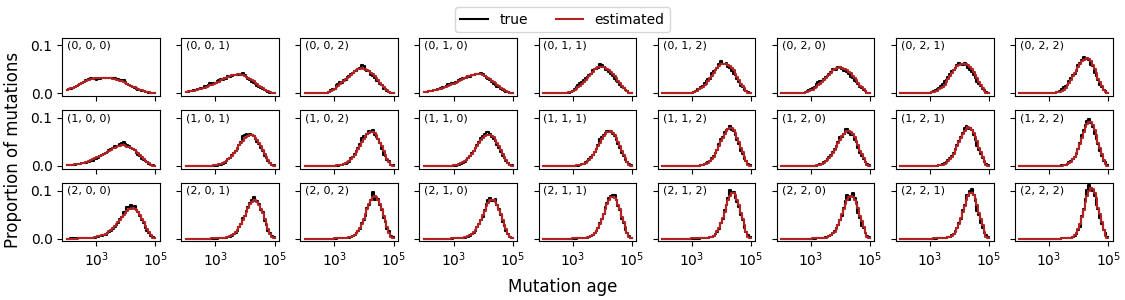
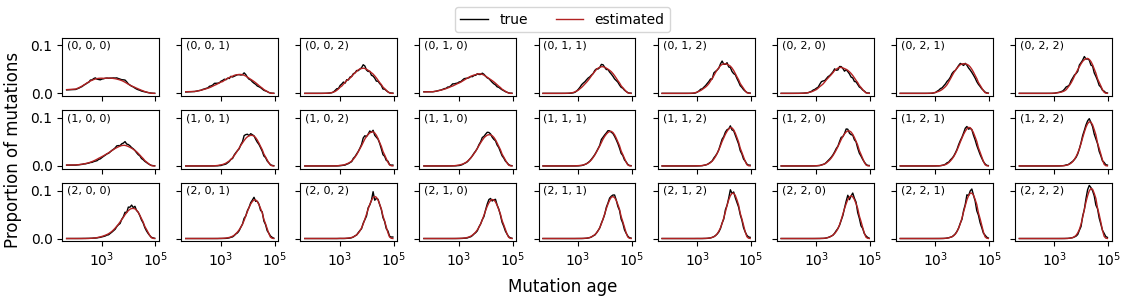
README

diff --git a/workflow/validation/compare_mutation_ages.py b/workflow/validation/compare_mutation_ages.py
@@ -33,11 +33,14 @@ fig, axs = plt.subplots(
     constrained_layout=True,
     squeeze=False,
 )
+midpoints = (time_grid[:-1] + time_grid[1:]) / 2
 for f, ax in zip(bins, axs.ravel()):
     true_pdf = true_afs[*f] / true_afs[*f].sum()
     infr_pdf = infr_afs[*f] / infr_afs[*f].sum()
-    ax.step(time_grid[1:], true_pdf[1:], where="post", color="black", label="true")
-    ax.step(time_grid[1:], infr_pdf[1:], where="post", color="firebrick", label="estimated")
+    #ax.step(time_grid[1:], true_pdf[1:], where="post", color="black", label="true")
+    #ax.step(time_grid[1:], infr_pdf[1:], where="post", color="firebrick", label="estimated")
+    ax.plot(midpoints, true_pdf[1:], "-", color="black", label="true", linewidth=1)
+    ax.plot(midpoints, infr_pdf[1:], "-", color="firebrick", label="estimated", linewidth=1)
     ax.text(0.05, 0.95, f"{f}", ha="left", va="top", size=8, transform=ax.transAxes)
     ax.set_xscale("log")
 fig.supylabel("Proportion of mutations")
@@ -53,7 +56,6 @@ tick_labels = [str(x).replace(" ", "") for x in bins]
 tick_locations, tick_labels = zip(
     *((i, x) for i, x in enumerate(tick_labels) if x.endswith(",0)"))
 )
-midpoints = (time_grid[:-1] + time_grid[1:]) / 2
 true_mn = []
 infr_mn = []
 for f in bins:
